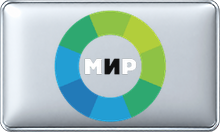
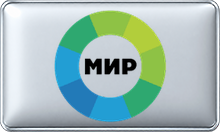
Sync confirmed case 14599 WHITE candidate

Changed region(s): [[0.5455, 0.4242, 0.6273, 0.5758], [0.3818, 0.4242, 0.4636, 0.5758]]

diff --git a/docs/PROJECT-CHECKPOINT.md b/docs/PROJECT-CHECKPOINT.md
@@ -22,6 +22,7 @@ This dated status supersedes older immediate-resume instructions in the historic
[4 lines of base64/hex data omitted]
 - Next gate: continue isolated V10 regression work on the test branch; ambiguous or unsafe samples remain REVIEW. The failed component-mask prototype is not approved, and full-catalog rebuild still requires successful isolated regression evidence and an explicitly approved production path.
 - Do not repeat the visual review or regeneration of Batches 1–13. Continue the Phase 4 V10 workflow on the isolated test branch using the approved records and existing V10 test specification.
 

diff --git a/reports/warder-master-production/phase4-v10-experiment-20260925/CASE-14599-MANUAL-APPROVAL.md b/reports/warder-master-production/phase4-v10-experiment-20260925/CASE-14599-MANUAL-APPROVAL.md
@@ -1,0 +1,15 @@
+# Case #14599 WHITE — manual visual decision
+
+Štefan confirmed the right-hand candidate on 2026-09-25: “beriem ten pravy”. He also clarified that this picon had already been corrected earlier. This record preserves that history and records the exact right-hand image confirmed today so the isolated test branch matches the confirmed output.
+
+- Case: #14599 — МИР
+- Destination: `picons/80.0e/orion-express/white/1_0_1_2C4_CD_1_3200000_0_0_0.png`
[3 lines of base64/hex data omitted]
+- Candidate: 220×132 RGBA; central text is black; colored ring is preserved. Candidate generation changed 993 source pixels; the rendered output differs from the old branch PNG at 797 pixels. Alpha and protected chromatic pixels are unchanged.
+- Manual decision: confirmed exact displayed right-hand candidate for this individual WHITE output.
+- Automated status remains `REVIEW`; this does not approve the algorithm or a full-catalog rebuild.
+- Applied only to `phase4-v10-component-mask-test`. No change to `main` or `warder-master-production`.
+
+The prior correction/approval is not reopened here. The test branch had retained a Phase 3 baseline, so this commit synchronizes its file with the image Štefan confirmed today.
